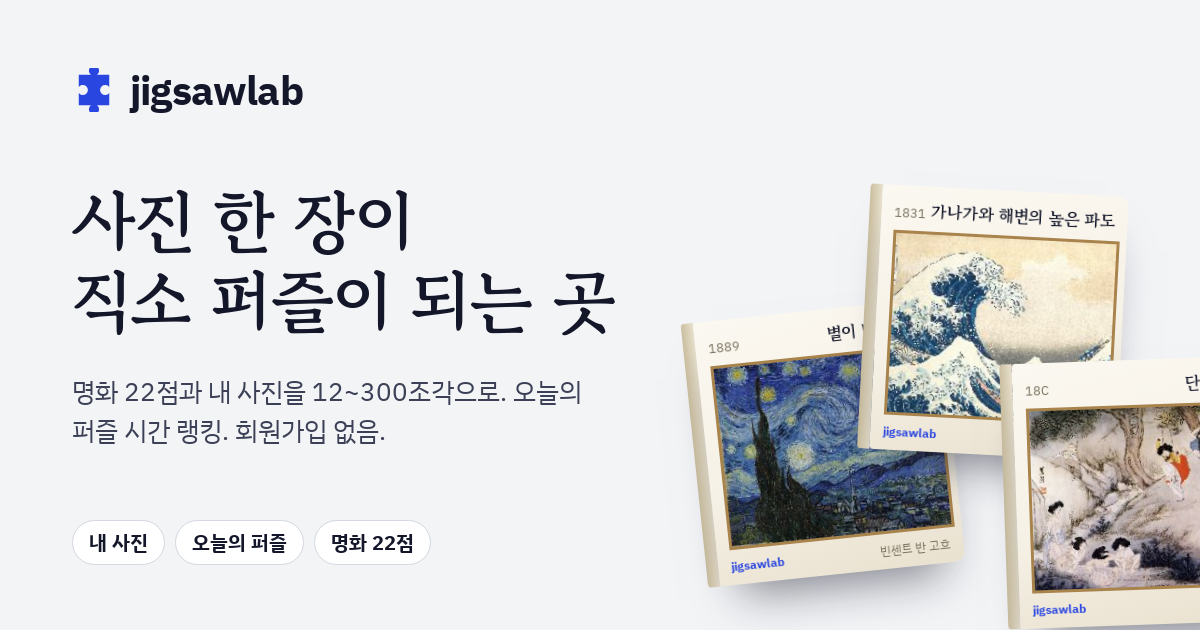
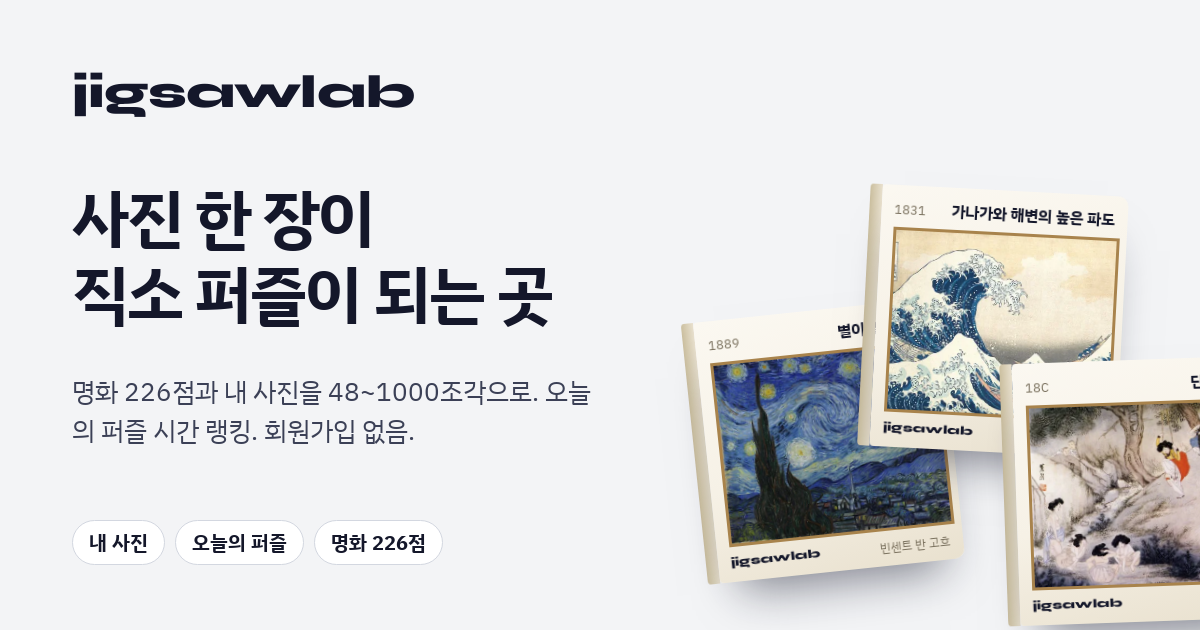
로고 리디자인: 심볼 제거, Syne 800 워드마크(헤더·푸터·상자 각인·OG), j 파비콘 세트 + 서치 콘솔 인증 파일 (사용자 요청 9/6)
Claude-Session: https://claude.ai/code/session_01M1rLGwKFnmvPzqZrohvcDB

diff --git a/googled3f24ec18f579c8a.html b/googled3f24ec18f579c8a.html
@@ -1,0 +1,1 @@
+google-site-verification: googled3f24ec18f579c8a.html

diff --git a/public/googled3f24ec18f579c8a.html b/public/googled3f24ec18f579c8a.html
@@ -1,0 +1,1 @@
+google-site-verification: googled3f24ec18f579c8a.html
